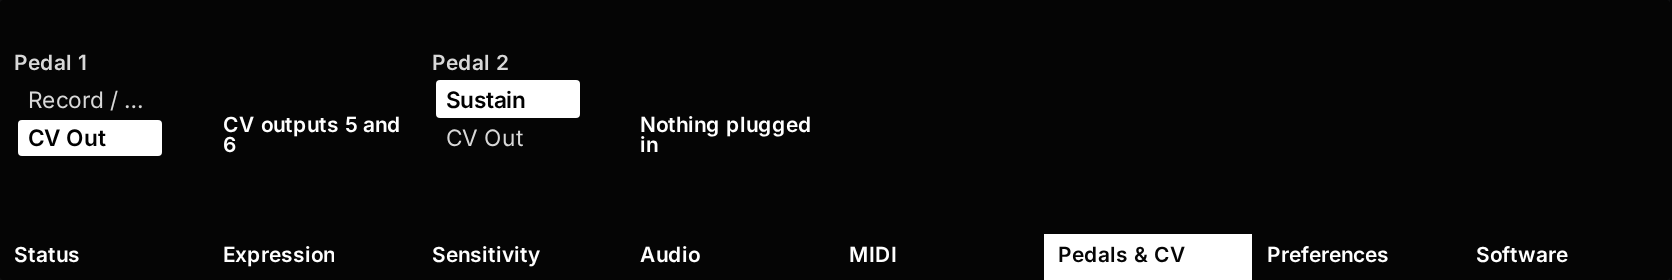
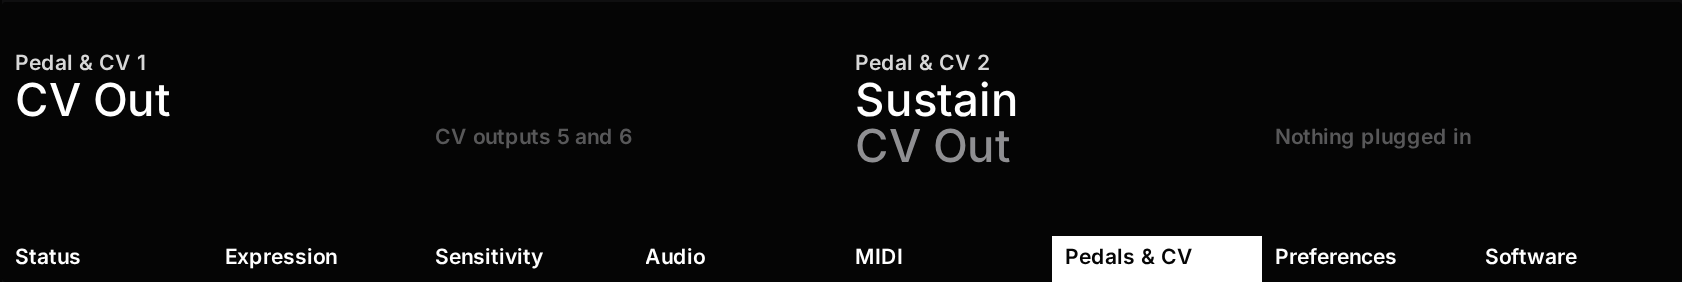
The Push doc records what each render was compared with, what the comparison changed, and where the device still differs from the unit.

diff --git a/docs/push.md b/docs/push.md
@@ -113,7 +113,10 @@ two drew the same pixels), and read against the manual's figures. One verdict pe
 | The unit as a whole | A new layout, `Surface` | Nothing places parts from a table of millimetres. |
 | The display's box | A new layout, `Display` | The 960 by 160 box, its eight columns, two rows and overlays arrange other parts. |
 | A parameter with an arc | `KnobReadout`, with one new prop | Name, value, unit and arc are what the display shows. A bipolar parameter (pan) fills from the middle, which `KnobReadout` cannot draw: it gains `origin`, as `Slider` already has. |
-| A switch, a choice list | `Toggle`, `Segmented`, as they are | |
+| A switch | `Toggle`, as it is | |
+| A choice | `Text` in the display's cell | The unit sets the current choice large with the others dim beneath or beside it. `Segmented` is a row of buttons with one filled, and `FolderList` a list with a block on one row: neither is that with one more prop. A choice is words at two strengths, which is `Text`, as the tab row is. |
+| A setting's small picture | `Icon`, as it is | A few strokes in a 24 by 24 box, in the value's colour. |
+| A code to scan | A new core component, `CodeImage` | Nothing draws a matrix of marks, and it is not the Push's: it is in `components/`, with its own encoder and no dependency. |
 | A touched parameter, an automated one | Local variables on the cell, and a `StatusDot` | |
 | The tab row and the track row | `Text`, `Icon` and `StatusDot` in the display's cells | `Tabs` sizes each tab to its word and underlines the chosen one; the display has eight fixed columns and marks the chosen one with a block. A cell with a `Text` in it is all the row is, so there is no new component. |
 | Menus: the browser, Sets, Setup's choices | `FolderList`, as it is, one per column | It already is the display's list: rows, a solid block on the chosen one, a mark at the right end (the chevron of a folder), rows that cannot be chosen (a folder still loading). |
@@ -126,7 +129,7 @@ two drew the same pixels), and read against the manual's figures. One verdict pe
 | A device's drawing: envelope, filter curve, oscillator shape, spectrum | A new component, `Trace` | A line through a list of points, filled or not. Nothing in the library draws one from numbers within the contract (the math plots are a plotting library). This is the one new component the plan knows of. |
 
 So the device needs two new props on existing parts (`origin` on `KnobReadout`, `level` on a
-`PianoRoll` note) and one new component (`Trace`). Everything else is an existing part, or a
+`PianoRoll` note) and two new components (`Trace`, and the generic `CodeImage`). Everything else is an existing part, or a
 layout of existing parts.
 
 ## The parts
@@ -141,6 +144,7 @@ the device model beside the parts.
 | `Push.Display` | The 960 by 160 screen alone, drawing a `Screen` description. |
 | `Push.RearPanel` | The back of the unit: its ports and the power button. |
 | `Push.Trace` | A line or a band through points, for a device's drawing. |
+| `CodeImage` (package root) | A text as a code a phone can scan. It is generic, so it is a core component, not the Push's: the display draws a lesson's link and a dialog's address with it. |
 | `Push.Emulator` | The device with a stand-in host that answers every intent over the sample Set, a legend of the gestures and an inspector of what was asked. It is the harness of every scenario story. |
 
 ### Building an emulator on it
@@ -222,6 +226,7 @@ With a mouse and keys, as the emulator's legend says:
 | Bend | Drag sideways from a held pad, on to its neighbours |
 | Turn | Drag up on a knob, the wheel, or the arrow keys |
 | Touch a knob | Press and hold it without moving, or latch it |
+| Map a switch to a macro | With a device's banks shown, hold the display button over the switch (or latch it), then press Map on the last lower display button |
 | Nudge the jog wheel | The arrows at its sides |
 | Play from the keys | Focus a pad, then the rows 1 to 8, Q to I, A to K and Z to comma |
 | The pedals | A `pushinput` event on the surface (above) |
@@ -309,33 +314,64 @@ Beside the table under "Values to tune on a unit":
 | Which colours the pads show when one is chosen | For a track, all 64 pads show the table in a fixed order. For a clip or a drum pad, the outer ring of pads shows them, so the pads inside still play. The current colour pulses. |
 | How a parameter is set out | As the manual's Device View figure has it: its name, its value at the large size with the unit small beside it, and its dial under them, from the column's left edge. A value written under a device's drawing is at the value size. A touched parameter keeps its sizes and stands on a lifted ground. |
 | The display in a pack whose dark ground is not dark | A screen is a lit screen: its ground is the pack's, solid, and no lighter than a screen is; type in a lamp's colour is no darker than can be read on it. Under `push-3` both rules change nothing. |
+| How a choice is drawn | Three ways, each from a figure. A setting shows its current choice large with the choices after it dim beneath (Setup's tabs). A parameter over a drawing shows the choices after it dim beside it, in a row (Simpler's Mode). A parameter in a column of its own shows the current one alone, large. A long list of small things (Note Pitch Bend, an output's source) is listed whole, small. |
+| A setting's picture | Where the unit draws a small picture under a value in place of a dial (a finger or a pad, an input or an output, on or off, Scene or Clip, a width or a height), the value names one of ten pictures and the display draws it. No drawing is passed as data. |
+| A bank's switches | A bank may carry switches and pairs of options (`Bank.switches`). While the device's banks are shown, the top row is the device alone, then those, each over its display button. A press switches one; holding one offers Map. A Simpler's Trigger and Gate are such a pair. |
+| Where Map is | On the last lower display button, as both of the manual's figures have it: for a touched parameter and for a held switch. Edit, Unmap and Done stay on the upper buttons, where the figures have them. |
+| Simpler's main bank | The figures' order: Zoom, Start, End, the mode's four, Mode last. Classic: S Start, Length, Loop Length, Loop Fade. One-Shot: Fade In, Fade Out, Transpose, Gain. Slicing: Nudge, Playback, Slice By and its companion. The first plan of this follow-up had Slice By before Playback; the Slicing figure has it after. |
+| The code image's colours | Dark marks on a light ground with a four-module margin, in every pack and mode: a scanner reads nothing else. It is the one thing on the display that is not coloured type on a dark ground. An address over 213 bytes is shown as text alone. |
+| 64 Pads | Four blocks of sixteen. The second is above the first and the right half follows the left, as the manual's figure of a 36-pad kit shows (the left half lit, and four more at the bottom right). The first build had the second block at the bottom right. |
 | A lamp's darker and lighter versions on a light body | One rule each, toward the unlit pad or toward white. On a light body a "darker" lamp is paler, not darker: it is less lit. |
 
 ### Known gaps
 
-- A lesson's link to further material is shown as its address in text. The unit shows a code image.
-- The sample Set gives Simpler's first bank as Zoom, Start, End, Mode and then the mode's own
-  four, as the plan specified. The manual's Slicing figure has Nudge fourth and Mode last. The
-  banks are the app's to give, so an app can give the unit's order.
-- A list of choices marks the current one with a solid block. The unit sets the current one large
-  and the others dim beneath it.
-- The unit draws a small picture under some Setup values (the finger for In Tune Location, the
-  input and output sign for a MIDI port). Those are not drawn.
-- Holding a switch's display button to map it (the manual's Map by hold) is not modelled; mapping
-  goes through the macro screen.
-- A one-shot Simpler's Gain is in its second bank, not its first.
+- **The browser's columns.** The unit keeps the path in the first column (Add, then Device) and
+  lays the current menu out across the other columns, five rows to a column. Here each enclosing
+  menu keeps its own column and the current one scrolls, as the plan specified
+  (`push-display`, "A list shows a highlight and its place"). The buttons agree with the unit
+  (Preview second, the label fourth, Packs seventh); the layout of the lists does not.
+- **Session Screen Mode's top row.** The unit's figure gives the clip grid the whole height of
+  the display. Here the top row shows the selected scene's clips over the buttons that launch
+  them, and the grid has the body.
+- **Small marks the unit draws and this does not**: the icon before each item of a menu, the
+  icons beside Note Pitch Bend's three choices and an output's sources, Zoom as a pair of bars,
+  and the line under the top row in the mix.
+- **A choice's earlier choices.** In a row of choices the unit shows the end of the one before
+  the current one at the left. Here the row starts at the current one.
 - `.svelte` files are not type-checked (the project's standing limit); the plays run every scenario
   in both renderers.
 
 ## Evidence
 
 `docs/push/` holds zen's own renders (React, at the widths named). The manual's figures are
-Ableton's and are not kept in the repo. The control figure was compared by measure. These screen
-figures were read beside their renders, and the renders changed until they agreed in what is in
-which column and how a parameter is set out: the Status, Expression, Sensitivity, Audio, MIDI and
-Software tabs, a loaded device in Device View, Simpler in Slicing mode, and the Loop Selector
-layout of the pads. The other renders were made from the manual's text and have not been laid
-beside a figure.
+Ableton's and are not kept in the repo. The control figure was compared by measure. Every other
+render named below was read beside a figure of the manual's, and changed until it agreed in what
+is in which column, which button does what, and how a parameter is set out. Where one still
+differs, Known gaps says how.
+
+| Render | The manual's figure | What the comparison changed |
+|---|---|---|
+| `setup-status.png`, `setup-sensitivity.png`, `setup-software.png` | Status, Sensitivity, Software tabs | In the first build: the columns. Since: switches drawn as boxes. |
+| `setup-expression.png` | Expression tab | The mode's choices beneath it; a picture under In Tune Location, In Tune Width and Slide Height in place of a dial. |
+| `setup-audio.png` | Audio tab | Sample Rate, Buffer Size and the input types as choices beneath the current one; the output and the clock as small lists. |
+| `setup-midi.png` | MIDI tab | The direction's sign; the port large across four columns; the switches as boxes. |
+| `setup-pedals-cv.png` | Pedals & CV tab, and Enable CV Out | Each jack takes half the display, at the first and fifth columns. |
+| `setup-preferences.png` | Preferences tab | The first, third, fourth and sixth columns; a picture under each value. |
+| `setup-learn.png`, `setup-learn-linear-light.png` | (The manual has no figure of a lesson; its text says a QR code links to further material.) | The link is a code. Both renders were decoded back to the link's address. |
+| `display-device-view.png`, `display-switches.png` | A loaded device; the Map figures | The top row with the banks shown; Map on the last lower button. |
+| `display-rack-unfolded.png` | Expanded Racks | Nothing: the Rack, its devices under one line, then what follows it. |
+| `display-simpler.png`, `display-simpler-slicing.png`, `display-simpler-edit.png` | Simpler in Classic, One-Shot and Slicing mode, and its Edit Mode options | The bank's order, Mode last; Trigger and Gate as a pair; each action at its button; Reset Slices. |
+| `display-mix.png`, `display-mix-track.png` | Global Mix Mode; the mix controls in Track Mix Mode | The meters from the column's left edge with the reading under them; a track's volume as its meters. |
+| `display-clip.png`, `display-clip-audio.png` | Clip View; an audio clip in Clip View | Loop and Warp as boxes, Edit on the last button, the audio clip's three parameters in the last three columns, a length as bars, beats and sixteenths. |
+| `display-session.png` | Session Screen Mode | The scene numbers, which could not be read. The top row differs (Known gaps). |
+| `display-browser.png` | Browse Mode; browse and select devices | Preview, the label and Packs at the unit's buttons. The lists' layout differs (Known gaps). |
+| `display-code-dialog.png` | (No figure: the manual shows the code typed on another device.) | The address is also a code, decoded back from the render. |
+| `pads-64-notes.png` | C major scale on the pads | Nothing: the roots fall on the figure's pads. |
+| `pads-64-pads.png` | The 64 Pads layout | The order of the four blocks. |
+| `pads-loop-selector.png` | The Loop Selector layout | In the first build. |
+
+`display-drum-rack.png`, `display-sets.png`, `pads-session.png` and the light-pack Device View
+were not laid beside a figure in either pass.
 
 - **The face against the manual's control figure**: the surface was drawn at 760, 1100 and 1500
   pixels wide (`surface-760.png`, `surface-1100.png`, `surface-1500.png`) and every one of its 147
@@ -348,13 +384,8 @@ beside a figure.
   against its ground in all thirteen packs, light and dark: 4.5 to 1 for anything that can be
   pressed or read, 2 to 1 for the print of a control that is unavailable.
 - **The pads**: `pads-64-notes.png`, `pads-loop-selector.png`, `pads-64-pads.png`, `pads-session.png`.
-- **The display**: `display-device-view.png`, `display-rack-unfolded.png`, `display-drum-rack.png`,
-  `display-simpler.png`, `display-simpler-slicing.png`, `display-mix.png`, `display-clip.png`,
-  `display-clip-audio.png`, `display-session.png`, `display-browser.png`, `display-sets.png`, and
-  Device View in a light pack (`display-device-view-linear-light.png`).
-- **Setup**, tab by tab: `setup-status.png`, `setup-expression.png`, `setup-sensitivity.png`,
-  `setup-audio.png`, `setup-midi.png`, `setup-pedals-cv.png`, `setup-preferences.png`,
-  `setup-software.png`, and a lesson (`setup-learn.png`).
+- **The display and Setup**: the table above, with `display-drum-rack.png`, `display-sets.png`
+  and Device View in a light pack (`display-device-view-linear-light.png`).
 
 ## Checks
 
@@ -363,7 +394,7 @@ npx vitest run src/library/push          # the model's table tests
 node scripts/push-stories.mjs            # every Push story's play, in React and Svelte, against a served Storybook
 node scripts/push-stories.mjs "Push/Screens/Theme" --theme linear --mode light   # the same plays in another pack
 node scripts/push-stories.mjs push-screens-theme--reduced-motion --reduced-motion
-npx tsx scripts/push-stories.ts push-setup   # regenerate a capability's stories from its spec
+npx tsx scripts/push-stories.ts push-setup   # a new capability's stories from the main specs; an existing stories file owns its scenarios and is not written over without --force
 ```
 
 `scripts/push-stories.mjs` asks the Storybook at `http://localhost:6006` (or `--url`, or
